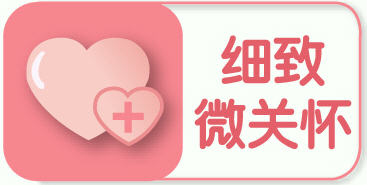
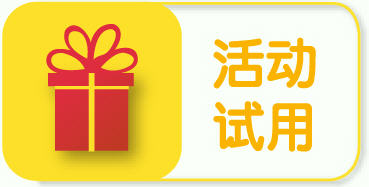
update

diff --git a/src/main/webapp/resources/site/css/news10.css b/src/main/webapp/resources/site/css/news10.css
@@ -395,8 +395,8 @@ h3 {
 	text-decoration:none;
 	/*color:#000;*/
 	/*background-color: #00ff00;*/
-	border-radius: 8px;
-	margin: 10px 5px 0 0;
+	border-radius: 12px;
+	margin: 20px 10px 0 10px;
 	/*box-shadow: 0 1px 3px #bebebe;-moz-box-shadow:0 1px 3px #bebebe;-webkit-box-shadow:0 1px 3px #bebebe;*/
 }
 

diff --git a/src/main/webapp/resources/site/index.html b/src/main/webapp/resources/site/index.html
@@ -110,7 +110,7 @@
 <div class="menubtn">
 <a href="brand6.html">
 	<div class="menumesg">
-		<div class="menuimg"><img src="img/nav_2.jpg"></div>
+		<div class="menuimg"><img src="img/nav_6.jpg"></div>
 	</div>
 </a>	
 </div>
